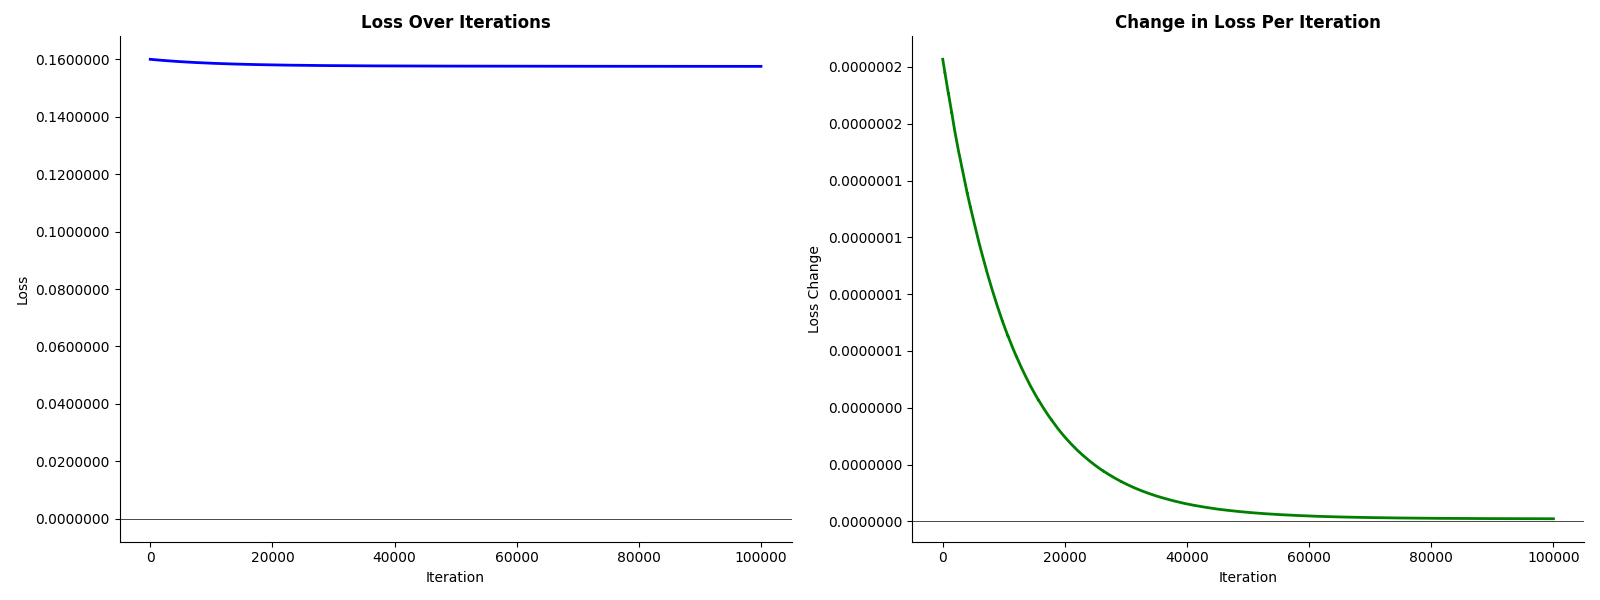
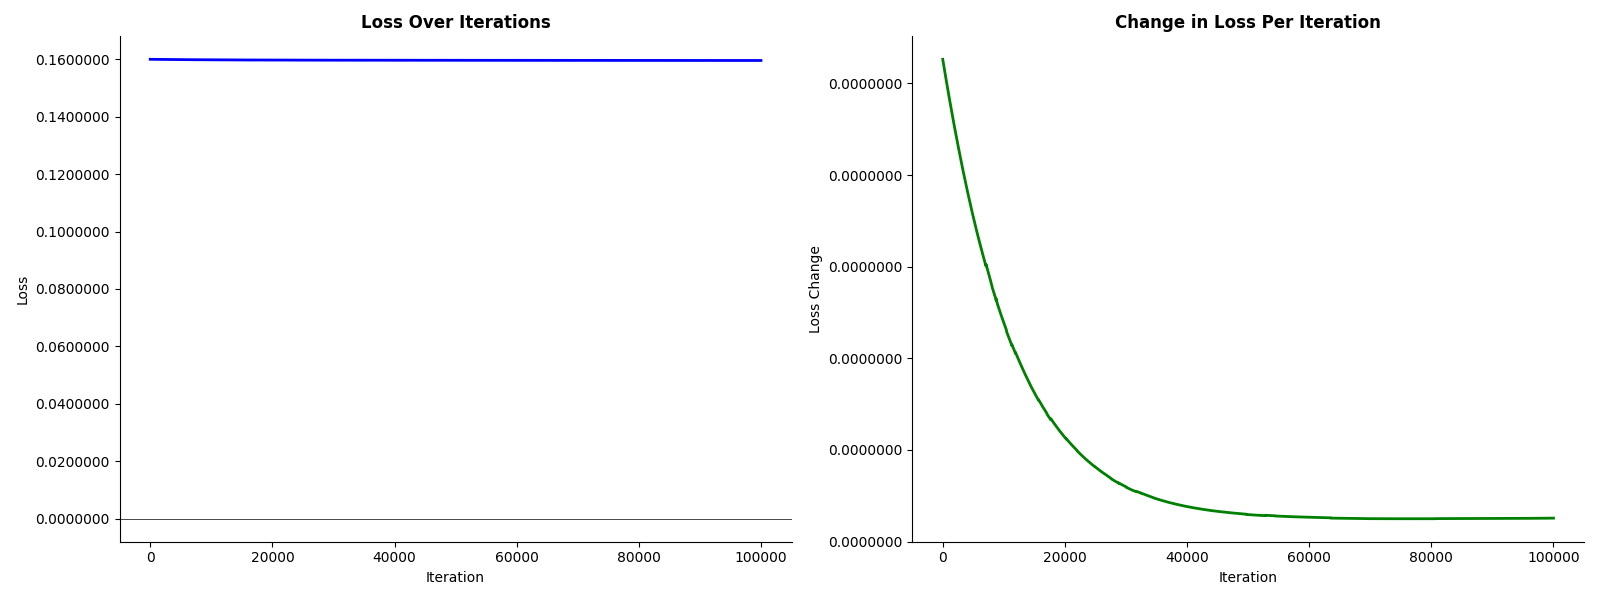
fixed image in readme

diff --git a/PythonApplication1/vizualizeNN.py b/PythonApplication1/vizualizeNN.py
@@ -68,8 +68,6 @@ class NeuralNetworkVisualizer:
         self.ax_info.clear()
         
         # Left subplot: Network architecture
-        self.ax_network.set_xlim(-1, len(self.layer_sizes))
-        self.ax_network.set_ylim(-1, max(self.layer_sizes) + 1)
         self.ax_network.axis('off')
         
         # Add iteration info to title if snapshots available
@@ -503,7 +501,7 @@ class NeuralNetworkVisualizer:
             
             # Comparison dropdown
             self.ax_compare = self.fig.add_subplot(gs[1:3, 2])
-            self.ax_compare.set_position([0.89, 0.50, 0.10, 0.35])
+            self.ax_compare.set_position([0.89, 0.30, 0.10, 0.35])
         else:
             self.ax_info = self.fig.add_subplot(gs[0, 1:])
         
@@ -561,7 +559,7 @@ class NeuralNetworkVisualizer:
         # Reposition button after tight_layout (which resets positions)
         if hasattr(self, 'ax_button'):
             # [left, bottom, width, height]
-            self.ax_button.set_position([0.90, 0.89, 0.08, 0.035])
+            self.ax_button.set_position([0.90, 0.70, 0.08, 0.035])
         
         print("\n" + "="*60)
         print("Visualization window opening...")

diff --git a/README.md b/README.md
@@ -1,29 +1,96 @@
-An example of a structure of a neural network using Backpropagation.
+An example of a structure of a neural network using Backpropagation with interactive visualization.
+
+## Features
+
+- **Neural Network Training**: Train a neural network with backpropagation
+- **Loss Visualization**: Track training progress with loss charts
+- **Interactive Network Visualizer**: Explore network architecture, weights, and biases
+- **Time Travel**: Step through training history iteration by iteration
+- **Comparison Mode**: Compare network states between different training iterations
 
 ## Usage
 
-You can start the programm by calling the `main.py` script:
+You can start the program by calling the `main.py` script:
 
     python3 PythonApplication1/main.py
 
-After the execution you find this graph as result.
+After execution, you'll see a loss chart followed by an interactive neural network visualizer.
 
-The graph could look like this:
-![combined_loss_charts](images/combined_loss_charts.png)
+### Loss Chart
 
-Advaced usage:
+The combined loss chart shows how the network's loss decreases during training:
 
-You can adjust both the number of iterations and the magnitude by which the weights and biases are updated in each iteration by using the following parameters.
+![Loss Chart](images/combined_loss_chart.png)
 
-* `-i` - Number of iterations (positive value > 0, default 10000)
-* `-m` - magnitude (floating point value, default 0.05)
+### Interactive Neural Network Visualizer
 
-Here is an example:
+The visualizer provides multiple ways to explore your trained network:
+
+![Network Visualization](images/network_viz_main.png)
+
+#### Basic Interaction
+
+- **Click on any neuron** in the network diagram to inspect its connections
+- **Use the Layer slider** to navigate between layers
+- **Use the Neuron slider** to select a specific neuron within a layer
+- **View weights and biases** in the information panel on the right
+
+The visualization shows:
+- **Red connections**: Positive weights
+- **Blue connections**: Negative weights
+- **Line thickness**: Magnitude of the weight (thicker = larger absolute value)
+- **Highlighted neuron**: Currently selected neuron in red
+
+#### Time Travel Feature
+
+Navigate through training history using the "Training History (Iteration)" slider:
+
+- Move the slider to view the network state at any training iteration
+- See how weights and biases evolved during training
+- The network diagram updates to show connection strengths at that iteration
+
+#### Comparison Mode
+
+Compare network states between two different iterations:
+
+1. **Select the target iteration** using the "Training History" slider
+2. **Click the "Compare" button** in the top-right corner
+3. **Choose a baseline iteration** from the dropdown menu on the right
+4. The visualization will show:
+   - **Red connections**: Weights that increased
+   - **Blue connections**: Weights that decreased
+   - **Line thickness**: Magnitude of change
+   - **Detailed change table**: Shows old value, new value, and change (with scientific notation for better readability)
+
+![Comparison Mode](images/network_viz_compare.png)
+
+Changes are displayed in scientific notation format (e.g., `+1.2345*10^-5`) for very small values, making it easier to read typical neural network weight updates.
+
+### Advanced Usage
+
+You can customize the training process and network architecture using command-line parameters:
+
+* `-i, --iterations` - Number of iterations (positive value > 0, default 100000)
+* `-m, --multiplier` - Learning rate/magnitude (floating point value, default 0.01)
+* `-l, --layers` - Network architecture: list of layer sizes from input to output (default: 16 16 16 5)
+
+#### Examples:
+
+Train with custom iterations and learning rate:
 
     python3 PythonApplication1/main.py -i 100000 -m 0.001
 
+Create a custom network architecture with 10 inputs, two hidden layers (8 and 6 neurons), and 3 outputs:
 
-## Prerequsites
+    python3 PythonApplication1/main.py -l 10 8 6 3
+
+Combine all parameters for a fully customized training:
+
+    python3 PythonApplication1/main.py -i 50000 -m 0.005 -l 20 15 10 5
+
+**Note**: The first number in the layers list is the input layer size, the last is the output layer size, and all numbers in between define hidden layers. The network must have at least 2 layers (input and output), and all layers must have at least 1 neuron.
+
+## Prerequisites
 
 * Python version: 3.9.6 
 * NumPy version: 2.0.2 
